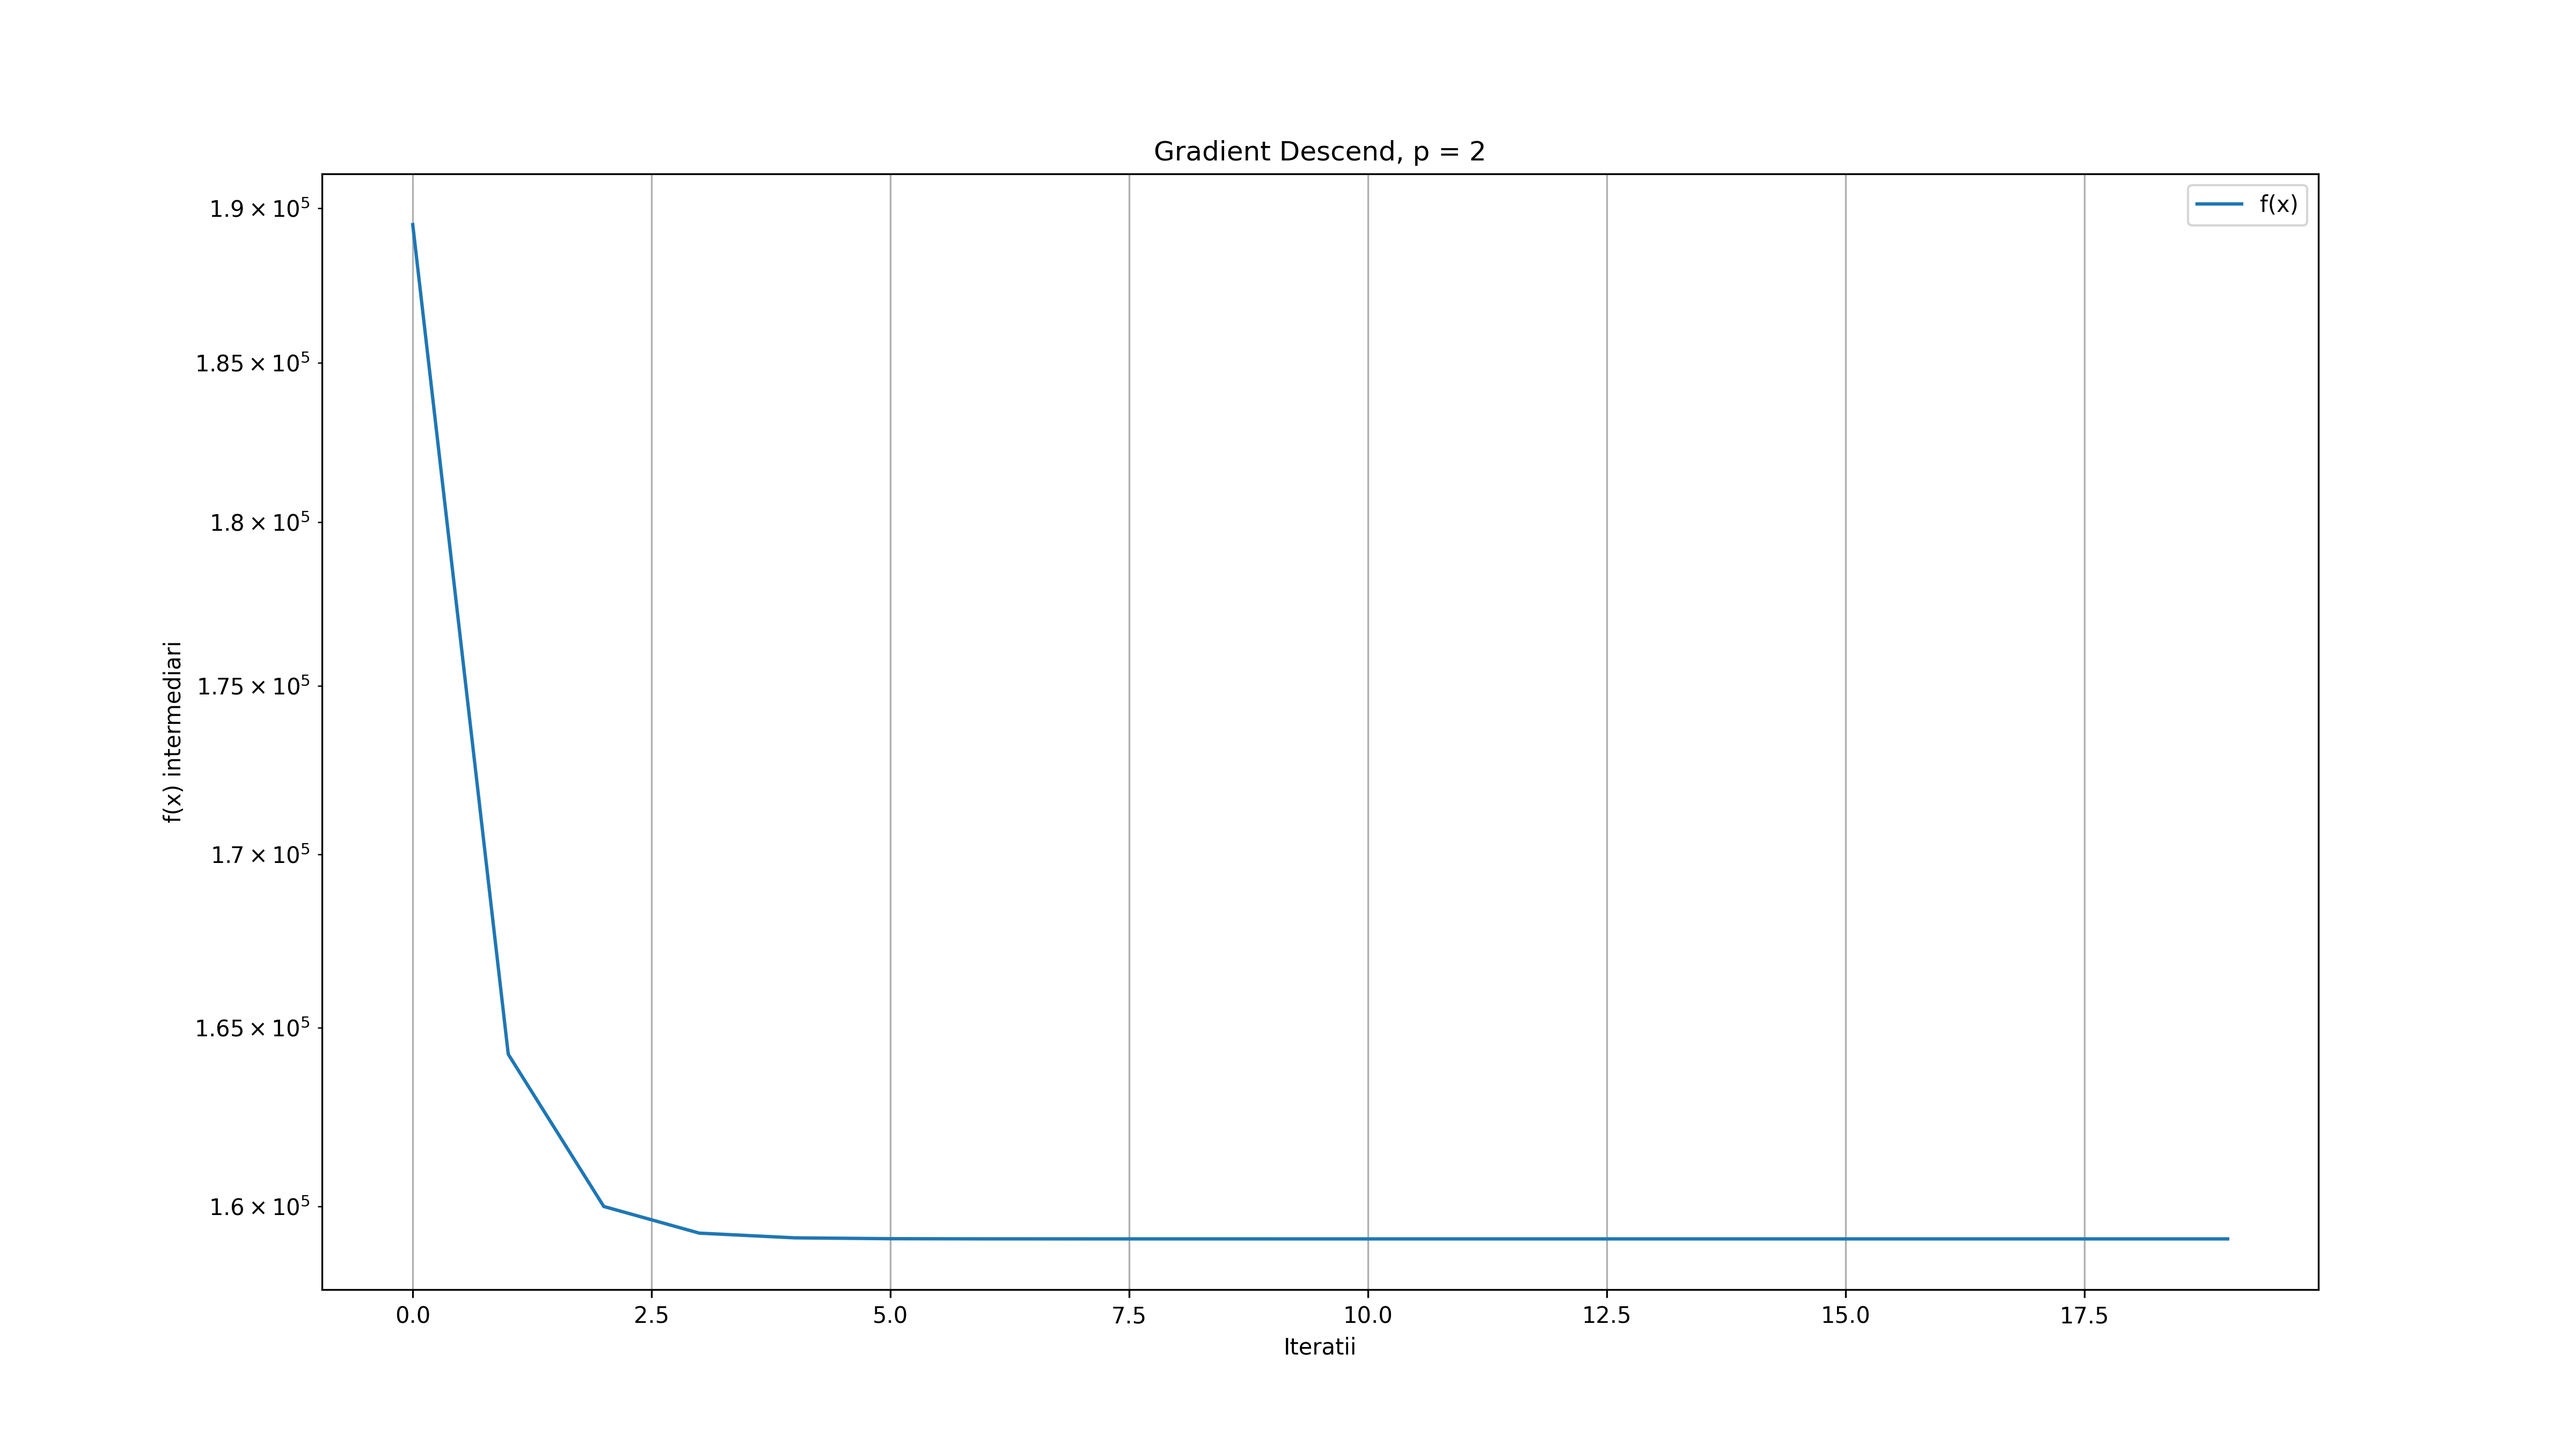
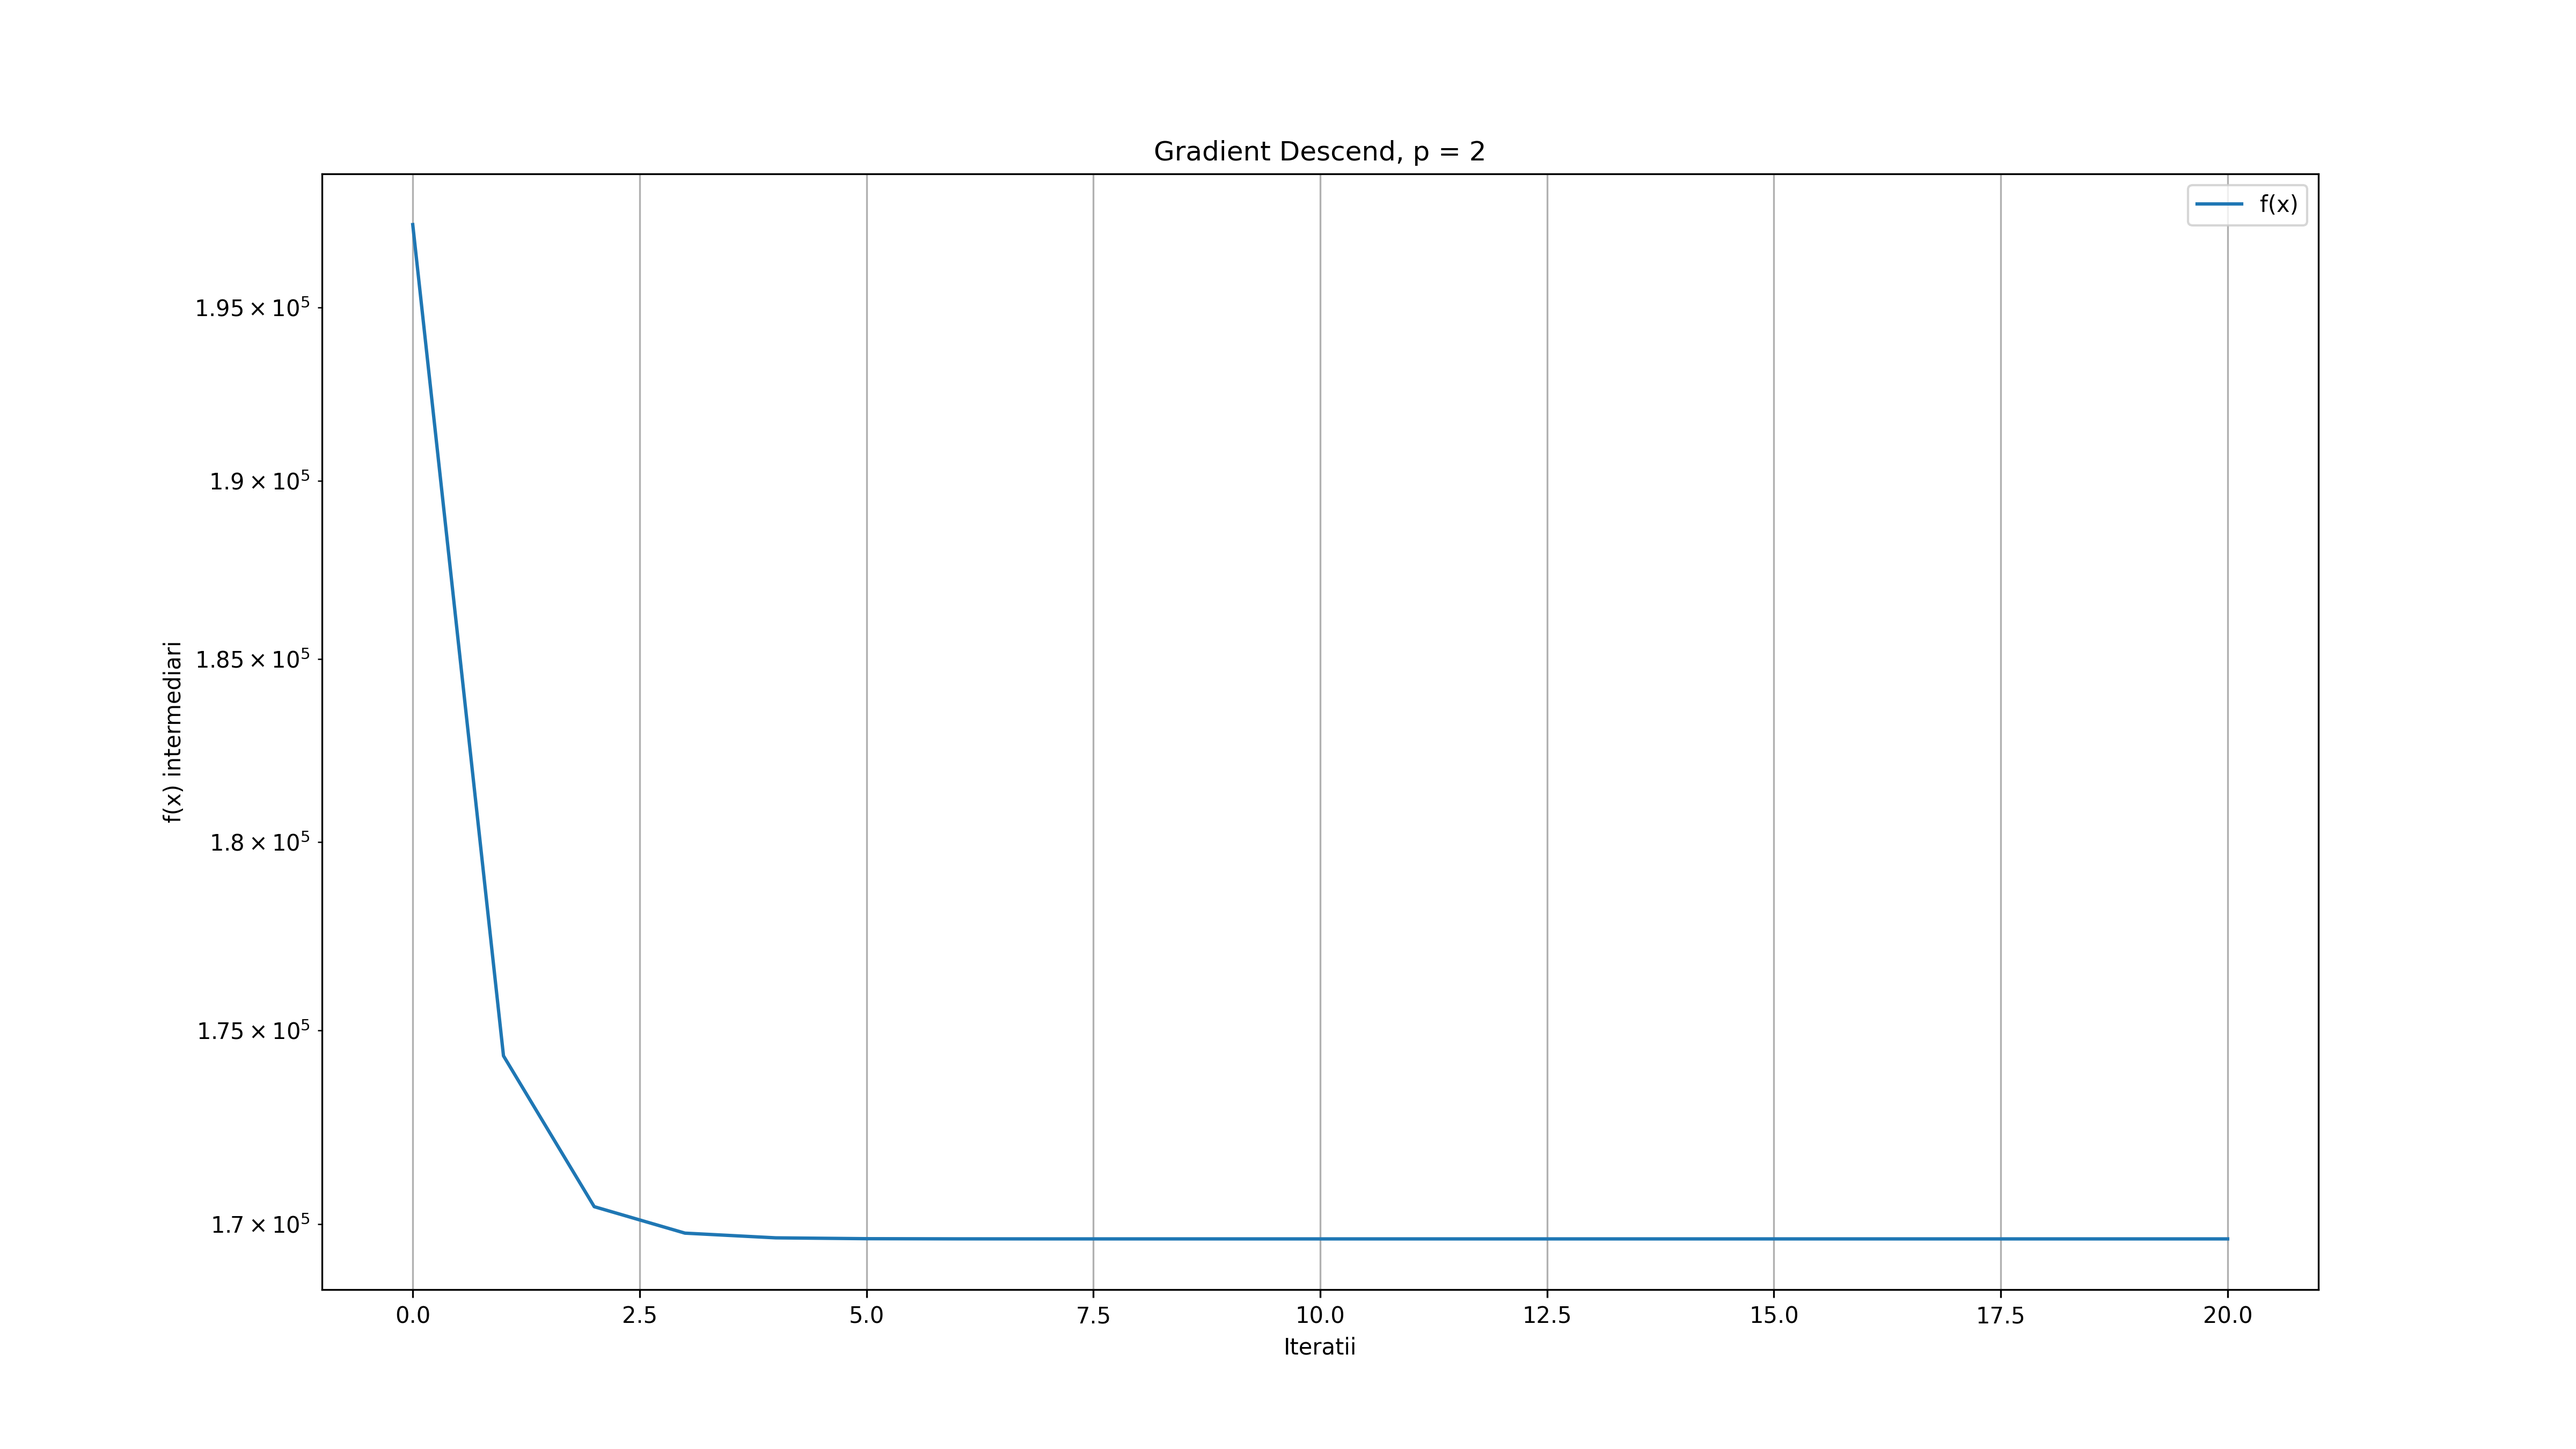
lab2 ex 2

diff --git a/lab2/src/2.py b/lab2/src/2.py
@@ -43,7 +43,7 @@ def genereaza_matrice_adiacenta(m, n, ponderata = False, cost_min = 0, cost_max 
                 W[j][i] = cost
             elif np.random.rand() < connection_prob:
                 W[i][j] = 1
-                W[j][i] = 1  
+                W[j][i] = 1
     
     return W
 
@@ -57,7 +57,7 @@ def f(coords, W, p):
         for j in range(i + 1, n):
             if W[i][j]:  
                 dist = np.linalg.norm(coords[i] - coords[j])
-                sigma += W[i][j] * dist ** p
+                sigma += (W[i][j] * dist) ** p
     
     return sigma
 
@@ -194,17 +194,34 @@ sedii = genereaza_sedii(nr_sedii, dimensiune)
 depozite = init_depozite(nr_depozite, dimensiune)
 
 # o fac fara cost ca sa fie mai usor de vizualizat rezultatul
+# 2d
 W = genereaza_matrice_adiacenta(nr_sedii, nr_depozite, ponderata = False)
 A = np.vstack((sedii, depozite))
 
-plot_sedii_depozite(A, nr_sedii, 'a_gd_init', W, title = 'Conexiune sedii si coordonate initiale depozite')
+plot_sedii_depozite(A, nr_sedii, 'a_gd_init_2d', W, title = 'Conexiune sedii si coordonate initiale depozite')
 
 A, intermediars, errors = gradient_descend(A, W, p, nr_sedii)
 
 plot_intermediars([intermediars], ['f(x)'], f'Gradient Descend, p = {p}', 'a_gd_neponderat', '')
-plot_sedii_depozite(A, nr_sedii, 'a_result_gd', W, title = 'Conexiune sedii si coordonate finale depozite')
+plot_sedii_depozite(A, nr_sedii, 'a_result_gd_2d', W, title = 'Conexiune sedii si coordonate finale depozite')
+
+# 3d
+dimensiune = 3
+
+sedii = genereaza_sedii(nr_sedii, dimensiune)
+depozite = init_depozite(nr_depozite, dimensiune)
+
+W = genereaza_matrice_adiacenta(nr_sedii, nr_depozite, ponderata = False)
+A = np.vstack((sedii, depozite))
+
+plot_sedii_depozite(A, nr_sedii, 'a_gd_init_3d', W, title = 'Conexiune sedii si coordonate initiale depozite')
+
+A, intermediars, errors = gradient_descend(A, W, p, nr_sedii)
+
+plot_sedii_depozite(A, nr_sedii, 'a_result_gd_3d', W, title = 'Conexiune sedii si coordonate finale depozite')
 
 
+# ponderat
 nr_sedii = 100
 nr_depozite = 70
 dimensiune = 3
@@ -217,3 +234,48 @@ A = np.vstack((sedii, depozite))
 
 A, intermediars, errors = gradient_descend(A, W, p, nr_sedii)
 plot_intermediars([intermediars], ['f(x)'], f'Gradient Descend, p = {p}', 'a_gd_ponderat', '')
+
+
+# b
+nr_sedii = 10
+nr_depozite = 6
+dimensiune = 2
+
+p = 1
+
+sedii = genereaza_sedii(nr_sedii, dimensiune)
+depozite = init_depozite(nr_depozite, dimensiune)
+
+W = genereaza_matrice_adiacenta(nr_sedii, nr_depozite, ponderata = False)
+A = np.vstack((sedii, depozite))
+
+A, intermediars, errors = gradient_descend(A, W, p, nr_sedii)
+
+plot_intermediars([intermediars], ['f(x)'], f'Gradient Descend, p = {p}', 'a_gd_neponderat', '')
+
+
+# c
+p = 1 / 2
+
+sedii = genereaza_sedii(nr_sedii, dimensiune)
+depozite = init_depozite(nr_depozite, dimensiune)
+
+W = genereaza_matrice_adiacenta(nr_sedii, nr_depozite, ponderata = False)
+A = np.vstack((sedii, depozite))
+
+A, intermediars, errors = gradient_descend(A, W, p, nr_sedii)
+
+plot_intermediars([intermediars], ['f(x)'], f'Gradient Descend, p = {p}', 'a_gd_neponderat', '')
+
+p = 3 / 2
+
+sedii = genereaza_sedii(nr_sedii, dimensiune)
+depozite = init_depozite(nr_depozite, dimensiune)
+
+W = genereaza_matrice_adiacenta(nr_sedii, nr_depozite, ponderata = False)
+A = np.vstack((sedii, depozite))
+
+A, intermediars, errors = gradient_descend(A, W, p, nr_sedii)
+
+plot_intermediars([intermediars], ['f(x)'], f'Gradient Descend, p = {p}', 'a_gd_neponderat', '')
+

diff --git a/lab2/src/1.py b/lab2/src/1.py
@@ -61,10 +61,6 @@ def test(A, b):
     print(f"V* > 10^3? {V_star > 10**3}")
 
 def gradient_descend(A, b, e = 1, x0 = None, alpha_method = "constant", alpha_constant = None, rho = 0.5, c = 0.5, max_iter = 100000):
-    """
-    Testeaza matricea A si vectorul b cu K > 10**6 si V* > 10**3.
-    """
-
     ATA = A.T @ A
     eigs_ATA = np.linalg.eigvals(ATA)
 
